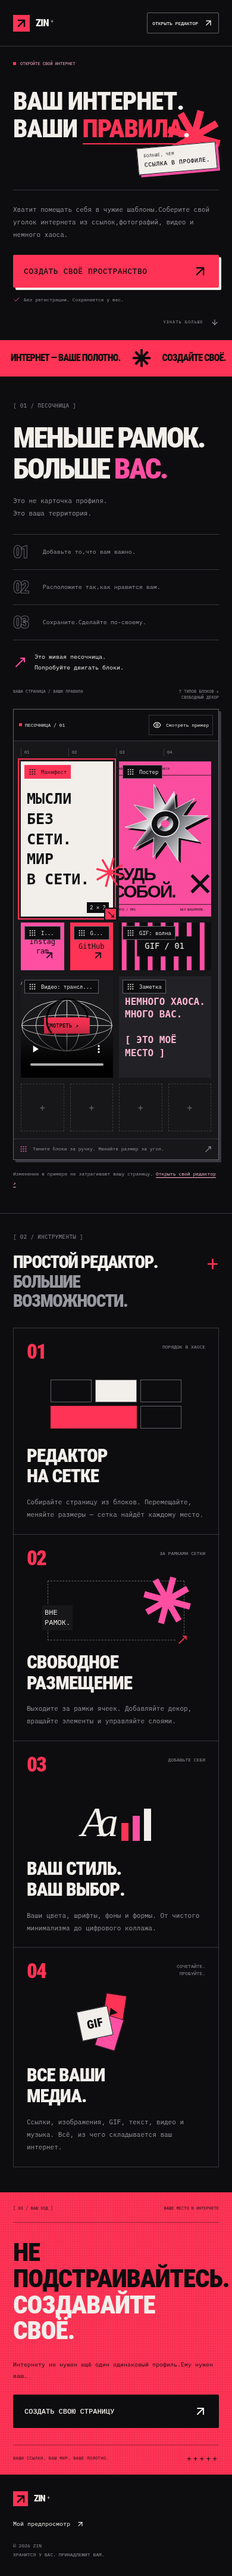
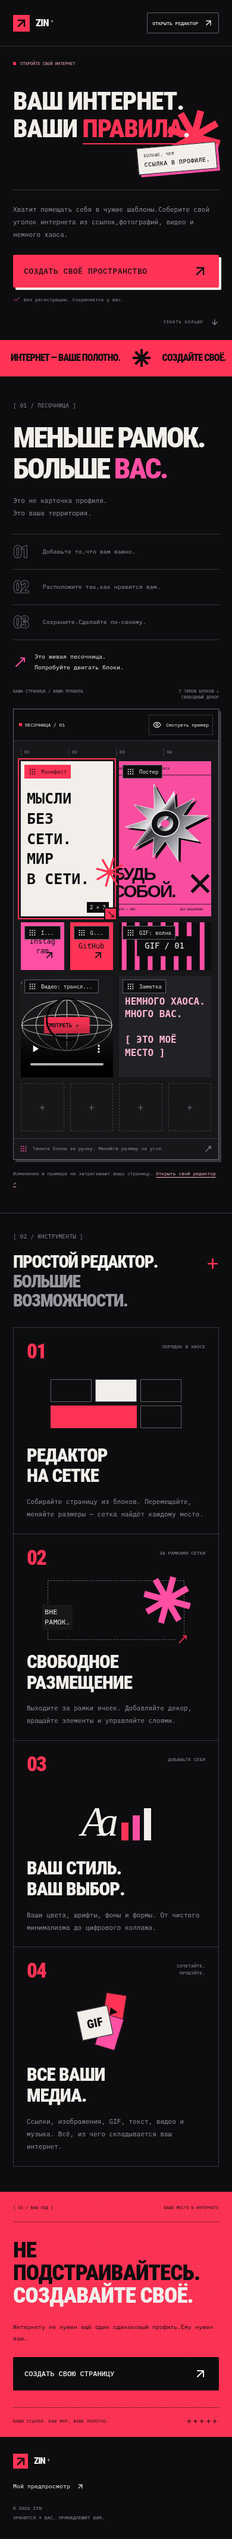
Keep Russian headings readable on narrow screens

diff --git a/tests/redesign.spec.ts b/tests/redesign.spec.ts
@@ -141,6 +141,22 @@ test("responsive compositions and panel switching fit phones, tablets, laptops a
         ),
         `${route} at ${width}px`,
       ).toBe(true);
+      const clippedHeadings = await page
+        .locator("h1, h2, h3")
+        .evaluateAll((nodes) =>
+          nodes
+            .filter((node) => {
+              const rect = node.getBoundingClientRect();
+              return (
+                rect.width > 0 &&
+                (node.scrollWidth > node.clientWidth + 1 ||
+                  rect.left < -1 ||
+                  rect.right > innerWidth + 1)
+              );
+            })
+            .map((node) => node.textContent),
+        );
+      expect(clippedHeadings, `${route} headings at ${width}px`).toEqual([]);
     }
     if (width <= 1050) {
       await page.goto("/editor");

diff --git a/src/styles/home.css b/src/styles/home.css
@@ -1127,7 +1127,7 @@
     padding-block: 28px;
   }
   .cta-content h2 {
-    font-size: 11vw;
+    font-size: clamp(28px, 9.5vw, 60px);
     margin-bottom: 25px;
   }
   .cta-content p {
